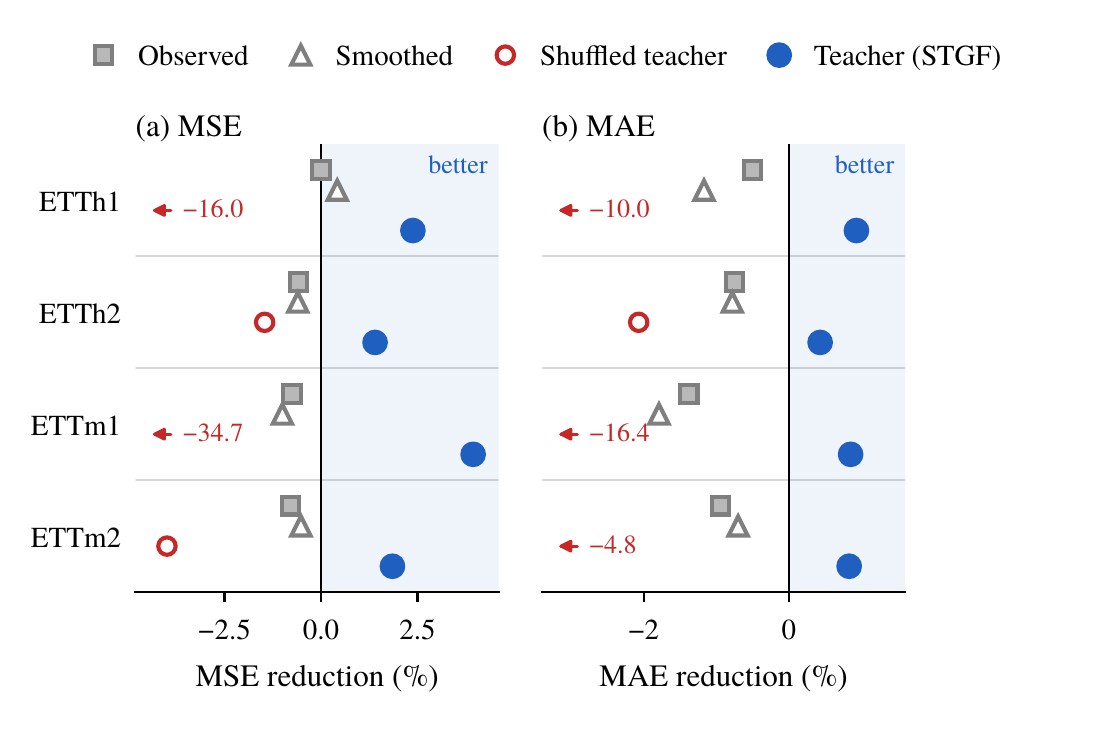
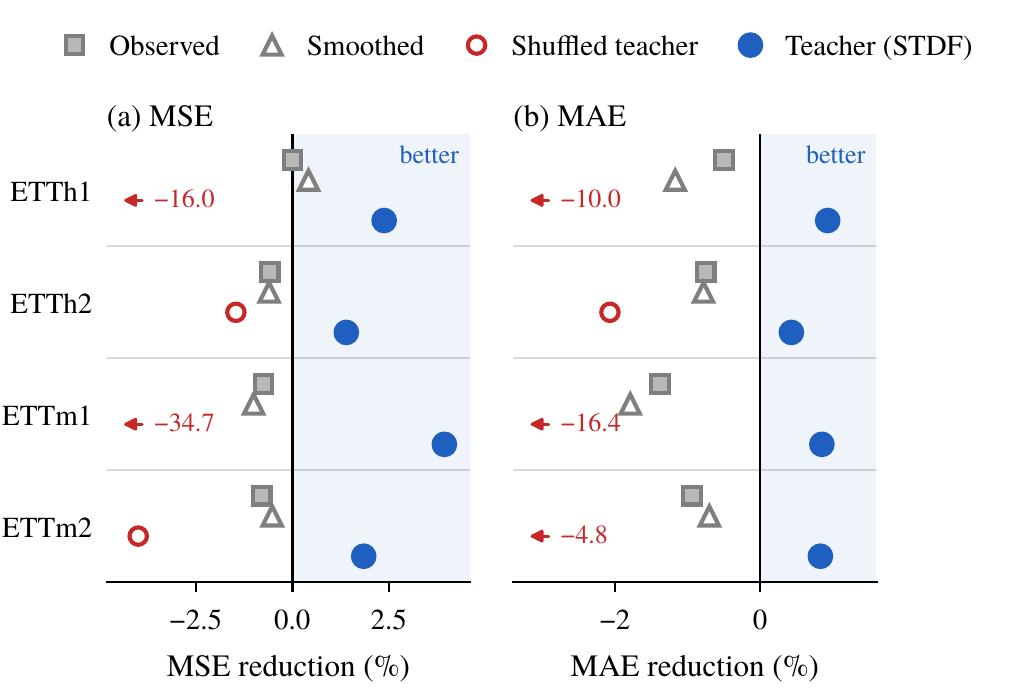
Rename the method to STDF and update the README to the revised paper
- models/STGF.py -> models/STDF.py; model registry, default --model and scripts
- README: new title and introduction, paradigm figure, revised teacher and
  loss descriptions, updated main results table, Key Evidence section
- no change to algorithms, hyperparameters or defaults

diff --git a/run.py b/run.py
@@ -4,14 +4,14 @@ from exp.exp_long_term_forecasting import Exp_Long_Term_Forecast
 from utils.print_args import print_args
 
 if __name__ == '__main__':
-    parser = argparse.ArgumentParser(description='STGF')
+    parser = argparse.ArgumentParser(description='STDF')
 
     # basic config
     parser.add_argument('--task_name', type=str, default='long_term_forecast',
                         help='task name, options:[long_term_forecast]')
     parser.add_argument('--is_training', type=int, required=True, default=1, help='status')
     parser.add_argument('--model_id', type=str, required=True, default='test', help='model id')
-    parser.add_argument('--model', type=str, default='STGF', help='model name, options: [STGF]')
+    parser.add_argument('--model', type=str, default='STDF', help='model name, options: [STDF]')
 
     # data loader
     parser.add_argument('--data', type=str, required=True, default='ETTh1',

diff --git a/teacher/searchcast_ridge.py b/teacher/searchcast_ridge.py
@@ -3,7 +3,7 @@
 This file is a subset of ``optuna_ridge.py`` from SearchCast
 (Huang, Xu and Darlow, "How Good Can Linear Models Be for Time-Series
 Forecasting?", https://github.com/SakanaAI/SearchCast), licensed under the
-Apache License, Version 2.0.  Changes for STGF: the command-line entry point,
+Apache License, Version 2.0.  Changes for STDF: the command-line entry point,
 the global-baseline search and the plotting/reporting utilities were removed,
 together with the imports only they needed.  The scalers, augmentations, Ridge
 solver, windowing helpers and the single-objective search wrapper below are

diff --git a/models/STDF.py b/models/STDF.py
@@ -63,7 +63,7 @@ def load_pca_memory(path, components, width):
 
 
 class Model(nn.Module):
-    """STGF student: LoRA-adapted GPT-2 forecaster with a frozen memory interface.
+    """STDF student: LoRA-adapted GPT-2 forecaster with a frozen memory interface.
 
     No teacher is loaded or executed here.  Teacher guidance only enters
     through the training loss, so the checkpoint alone is enough at inference.

diff --git a/exp/exp_basic.py b/exp/exp_basic.py
@@ -1,12 +1,12 @@
 import torch
-from models import STGF
+from models import STDF
 
 
 class Exp_Basic(object):
     def __init__(self, args):
         self.args = args
         self.model_dict = {
-            "STGF": STGF,
+            "STDF": STDF,
         }
         self.device = self._acquire_device()
         self.model = self._build_model().to(self.device)

diff --git a/teacher/ridge_teacher.py b/teacher/ridge_teacher.py
@@ -1,4 +1,4 @@
-"""History-adaptive base forecaster of the STGF statistical teacher.
+"""History-adaptive base forecaster of the STDF statistical teacher.
 
 Channels are split, in their original order, into consecutive groups of at most
 ``series_group`` variables and the horizon into contiguous ``forecast_group``

diff --git a/utils/losses.py b/utils/losses.py
@@ -4,7 +4,7 @@ import torch.nn.functional as F
 
 
 class GuidanceLoss(nn.Module):
-    """STGF training objective (Eq. 6).
+    """STDF training objective (Eq. 6).
 
         L = MAE_B(S, Y) + lambda * MSE_{B_T}(S, sg(T)) + beta * MAE_{B_T}(S, sg(T))
 

diff --git a/README.md b/README.md
@@ -1,22 +1,20 @@
-# STGF: Long-Term Time Series Forecasting with Large Language Models via Statistical Teacher Guidance
+# STDF: Aligning on Forecasts, Not Representations — Statistical-Teacher Distillation for LLM-Based Time Series Forecasting
 
 ## Introduction
 
-LLM-based forecasters are usually trained on observed futures together with auxiliary alignment objectives whose benefit for forecasting is unclear. STGF studies ***which auxiliary targets actually improve an LLM forecaster***, and guides a LoRA-adapted GPT-2 student with forecasts from an independently fitted and frozen **statistical teacher**.
+LLM-based forecasters are usually trained on observed futures together with auxiliary objectives that align representations, whose benefit for forecasting is unclear. STDF instead **aligns the LLM on forecasts**: it distills forecasts from an independently fitted and frozen **statistical teacher** into a LoRA-adapted GPT-2 student (see [Figure 1](#fig-paradigm)).
 
-With the student architecture, loss form, coefficients and valid windows held fixed, using teacher forecasts as auxiliary targets improves both MSE and MAE on the four ETT datasets, whereas observed, smoothed or shuffled targets do not (see [Figure 1](#fig-guidance)).
-
-<p align="center" id="fig-guidance">
-    <img src="assets/guidance_target.png" width="520" alt="Effect of the auxiliary guidance target">
+<p align="center" id="fig-paradigm">
+    <img src="assets/paradigm.png" width="520" alt="Comparison of training paradigms">
     <br>
-    <strong>Figure 1:</strong> Effect of the auxiliary guidance target. Points show the relative MSE (a) and MAE (b) reduction (%) over supervision on observed targets only, averaged over four horizons and three seeds; positive values (shaded) indicate improvement.
+    <strong>Figure 1:</strong> Comparison of training paradigms. (a) Typical LLM forecasters read 96-step inputs and align the LLM with a text branch or neural teacher through representation-level objectives. (b) STDF fits a statistical teacher on long histories, freezes it, and distills only its forecasts into the LLM student; the teacher is not executed at inference.
 </p>
 
-STGF has three components (see [Figure 2](#fig-framework)):
+STDF has three components (see [Figure 2](#fig-framework)):
 
-- **Residual-Corrected Statistical Teacher.** A grouped Ridge forecaster selects its own lookback (up to 2,048 steps), local statistics window and penalty for every variable group and 24-step forecast block. Shallow gradient-boosted trees, fitted on chronological out-of-fold residuals, add a weighted correction. The teacher is fitted on training data only and frozen before student training.
+- **Residual-Corrected Statistical Teacher.** A grouped Ridge forecaster, adapted from SearchCast, selects its own lookback (up to 2,048 steps), local statistics window and penalty for every group of at most seven variables and every 24-step forecast block. The group size is fixed in advance, and the configuration is searched by three-fold expanding-window validation inside the training interval only, with every candidate scored on the same folds. Shallow gradient-boosted trees, fitted on chronological out-of-fold residuals, add a weighted correction. The teacher is fitted on training data only and frozen before student training.
 - **LLM Student Adaptation.** Each variable is encoded as one token, queries a frozen PCA memory of GPT-2 word embeddings through gated cross-attention, and passes through the first six GPT-2 blocks adapted with LoRA. Only the LoRA, LayerNorm and positional parameters of the backbone are updated.
-- **Forecast Guidance Loss.** The student learns from observed futures together with squared and absolute discrepancies from the precomputed teacher forecasts:
+- **Forecast Distillation Loss.** The student learns from observed futures together with teacher-guidance terms, the squared and absolute discrepancies from the precomputed teacher forecasts:
 
   ```
   L = MAE(Ŷ, Y) + λ · MSE(Ŷ, sg(T)) + β · MAE(Ŷ, sg(T)),    λ = β = 0.4
@@ -25,24 +23,34 @@ STGF has three components (see [Figure 2](#fig-framework)):
 The teacher may use much longer histories than the student, but this information reaches the student only through precomputed targets. **The teacher is never executed at inference**: the deployed student forecasts from a 96-step input.
 
 <p align="center" id="fig-framework">
-    <img src="assets/framework.png" width="900" alt="Overview of STGF">
+    <img src="assets/framework.png" width="900" alt="Overview of STDF">
     <br>
-    <strong>Figure 2:</strong> Overview of STGF. A statistical teacher combines a history-adaptive Ridge forecast with a learned residual correction. During student training, the teacher is frozen and provides forecast-level supervision. The student retrieves from a frozen PCA memory and adapts a pretrained GPT-2 backbone with LoRA. Only the student is retained at inference.
+    <strong>Figure 2:</strong> Overview of STDF. A statistical teacher combines a history-adaptive Ridge forecast with a learned residual correction. During student training, the teacher is frozen and provides forecast-level supervision. The student retrieves from a frozen PCA memory and adapts a pretrained GPT-2 backbone with LoRA. Only the student is retained at inference.
 </p>
 
 ## Main Results
 
-Long-term forecasting with input length 96, averaged over horizons {96, 192, 336, 720} and reported as MSE / MAE. STGF and CALF† (our reproduction) average seeds 2021–2023. STGF achieves the best result in 13 of the 14 dataset-metric comparisons against the baselines reported in the paper.
+Long-term forecasting with input length 96, averaged over horizons {96, 192, 336, 720} and reported as MSE / MAE. STDF and CALF† (our reproduction) average seeds 2021–2023; on Electricity and Traffic, CALF is rerun with the same epoch limit (100) and patience (15) as STDF. STDF achieves the best result in 13 of the 14 dataset-metric comparisons in the paper and lowers the dataset-averaged MSE and MAE of CALF by 3.16% and 2.43%.
 
-| Dataset | STGF | CALF† | T-LLM | Time-LLM | PatchTST | iTransformer | DLinear |
-|---|---|---|---|---|---|---|---|
-| ETTm1 | **0.377 / 0.384** | 0.400 / 0.391 | 0.397 / 0.391 | 0.410 / 0.409 | 0.387 / 0.400 | 0.407 / 0.410 | 0.403 / 0.407 |
-| ETTm2 | **0.277 / 0.318** | 0.285 / 0.324 | 0.278 / 0.319 | 0.296 / 0.340 | 0.281 / 0.326 | 0.288 / 0.332 | 0.350 / 0.401 |
-| ETTh1 | **0.433 / 0.427** | 0.445 / 0.431 | 0.441 / 0.433 | 0.460 / 0.449 | 0.469 / 0.454 | 0.454 / 0.447 | 0.456 / 0.452 |
-| ETTh2 | **0.367 / 0.394** | 0.376 / 0.398 | 0.374 / 0.396 | 0.389 / 0.408 | 0.387 / 0.407 | 0.383 / 0.407 | 0.559 / 0.515 |
-| Weather | 0.248 / **0.270** | 0.252 / 0.274 | 0.246 / 0.271 | 0.274 / 0.290 | 0.259 / 0.281 | 0.258 / 0.278 | 0.265 / 0.317 |
-| Electricity | **0.167 / 0.254** | 0.187 / 0.274 | 0.174 / 0.265 | 0.223 / 0.309 | 0.205 / 0.290 | 0.178 / 0.270 | 0.212 / 0.300 |
-| Traffic | **0.424 / 0.264** | 0.453 / 0.294 | 0.437 / 0.287 | 0.541 / 0.358 | 0.481 / 0.304 | 0.428 / 0.282 | 0.625 / 0.383 |
+| Dataset | STDF | CALF† | Time-LLM | PatchTST | iTransformer | DLinear |
+|---|---|---|---|---|---|---|
+| ETTm1 | **0.377 / 0.384** | 0.400 / 0.391 | 0.410 / 0.409 | 0.387 / 0.400 | 0.407 / 0.410 | 0.403 / 0.407 |
+| ETTm2 | **0.277 / 0.318** | 0.285 / 0.324 | 0.296 / 0.340 | 0.281 / 0.326 | 0.288 / 0.332 | 0.350 / 0.401 |
+| ETTh1 | **0.433 / 0.427** | 0.445 / 0.431 | 0.460 / 0.449 | 0.469 / 0.454 | 0.454 / 0.447 | 0.456 / 0.452 |
+| ETTh2 | **0.367 / 0.394** | 0.376 / 0.398 | 0.389 / 0.408 | 0.387 / 0.407 | 0.383 / 0.407 | 0.559 / 0.515 |
+| Weather | 0.248 / **0.270** | 0.252 / 0.274 | 0.274 / 0.290 | 0.259 / 0.281 | 0.258 / 0.278 | 0.265 / 0.317 |
+| Electricity | **0.167 / 0.254** | 0.171 / 0.264 | 0.223 / 0.309 | 0.205 / 0.290 | 0.178 / 0.270 | 0.212 / 0.300 |
+| Traffic | **0.424 / 0.264** | 0.439 / 0.287 | 0.541 / 0.358 | 0.481 / 0.304 | 0.428 / 0.282 | 0.625 / 0.383 |
+
+## Key Evidence
+
+With the student architecture, loss form, coefficients and valid windows held fixed, using teacher forecasts as auxiliary targets improves both MSE and MAE on the four ETT datasets, whereas observed, smoothed or shuffled targets do not.
+
+<p align="center" id="fig-guidance">
+    <img src="assets/guidance_target.png" width="520" alt="Effect of the auxiliary guidance target">
+    <br>
+    <strong>Figure 3:</strong> Effect of the auxiliary guidance target. Points show the relative MSE (a) and MAE (b) reduction (%) over supervision on observed targets only, averaged over four horizons and three seeds; positive values (shaded) indicate improvement.
+</p>
 
 ## Prerequisites
 
@@ -87,7 +95,7 @@ Training scripts are located in the `./scripts` folder. Each script trains seeds
 
 ### Long-term Forecasting
 
-For instance, to train STGF on the ETTh1 dataset, execute:
+For instance, to train STDF on the ETTh1 dataset, execute:
 
 ```
 sh scripts/long_term_forecasting/ETTh1.sh
@@ -96,9 +104,9 @@ sh scripts/long_term_forecasting/ETTh1.sh
 Each run has two stages:
 
 1. **Teacher construction** (offline, once per dataset and horizon). The Ridge base forecaster is searched and fitted, out-of-fold forecasts are produced from the first 40%, 60% and 80% of the training interval, and the tree depth and correction weight η are selected by forward validation (η = 0 is the fallback). Teacher forecasts of all training windows are cached in `./teacher_cache` and reused by later runs and seeds.
-2. **Student training** with the forecast guidance loss. The checkpoint is selected by validation MSE.
+2. **Student training** with the forecast distillation loss. The checkpoint is selected by validation MSE.
 
-Teacher construction is the main additional cost of STGF. It is cheap on ETT but takes hours on Electricity and Traffic, most of it for the out-of-fold forecasts and the residual correction; `--teacher_residual 0` builds the cheaper Ridge-only teacher.
+Teacher construction is the main additional cost of STDF. It is cheap on ETT but takes hours on Electricity and Traffic, most of it for the out-of-fold forecasts and the residual correction; `--teacher_residual 0` builds the cheaper Ridge-only teacher.
 
 ### Few-shot Forecasting
 
@@ -128,7 +136,7 @@ The student is trained on the source dataset with time-scale augmentation (`--ti
 | Argument | Meaning |
 |---|---|
 | `--use_teacher 0` | supervision on observed targets only |
-| `--con_w`, `--rob_w` | λ and β of the guidance loss |
+| `--con_w`, `--rob_w` | λ and β of the distillation loss |
 | `--teacher_residual 0` | teacher without residual correction |
 | `--teacher_max_lookback 96` | short-history teacher |
 | `--use_memory 0` | student without the PCA memory interface |
@@ -142,13 +150,13 @@ run.py                               entry point
 pca.py                               builds the frozen PCA memory
 exp/exp_long_term_forecasting.py     teacher preparation, training, validation, testing
 data_provider/                       chronological splits, standardization, windows
-models/STGF.py                       LLM student
+models/STDF.py                       LLM student
 models/GPT2_arch.py                  GPT-2 wrapper
 teacher/ridge_teacher.py             history-adaptive grouped Ridge base forecaster
 teacher/residual.py                  gradient-boosted residual correction and its selection
 teacher/build.py                     offline teacher construction and guidance cache
 teacher/searchcast_ridge.py          Ridge solver and search from SearchCast
-utils/losses.py                      forecast guidance loss
+utils/losses.py                      forecast distillation loss
 utils/augmentation.py                time-scale augmentation
 scripts/                             long-term, few-shot and zero-shot scripts
 ```
@@ -158,6 +166,6 @@ scripts/                             long-term, few-shot and zero-shot scripts
 Our gratitude extends to the authors of the following repositories:
 
 - [CALF](https://github.com/Hank0626/CALF): this code base, the numerical interface and the GPT-2 wrapper are built on CALF.
-- [SearchCast](https://github.com/SakanaAI/SearchCast): the Ridge search and solver of the teacher (`teacher/searchcast_ridge.py`, Apache-2.0).
+- [SearchCast](https://github.com/SakanaAI/SearchCast): the standardizer, Ridge solver and search wrapper of the teacher (`teacher/searchcast_ridge.py`, Apache-2.0). We fix the variable-group size, confine the configuration search to the training interval, and score all candidates on the same folds.
 - [Time-Series-Library](https://github.com/thuml/Time-Series-Library)
 - [Autoformer](https://github.com/thuml/Autoformer)
